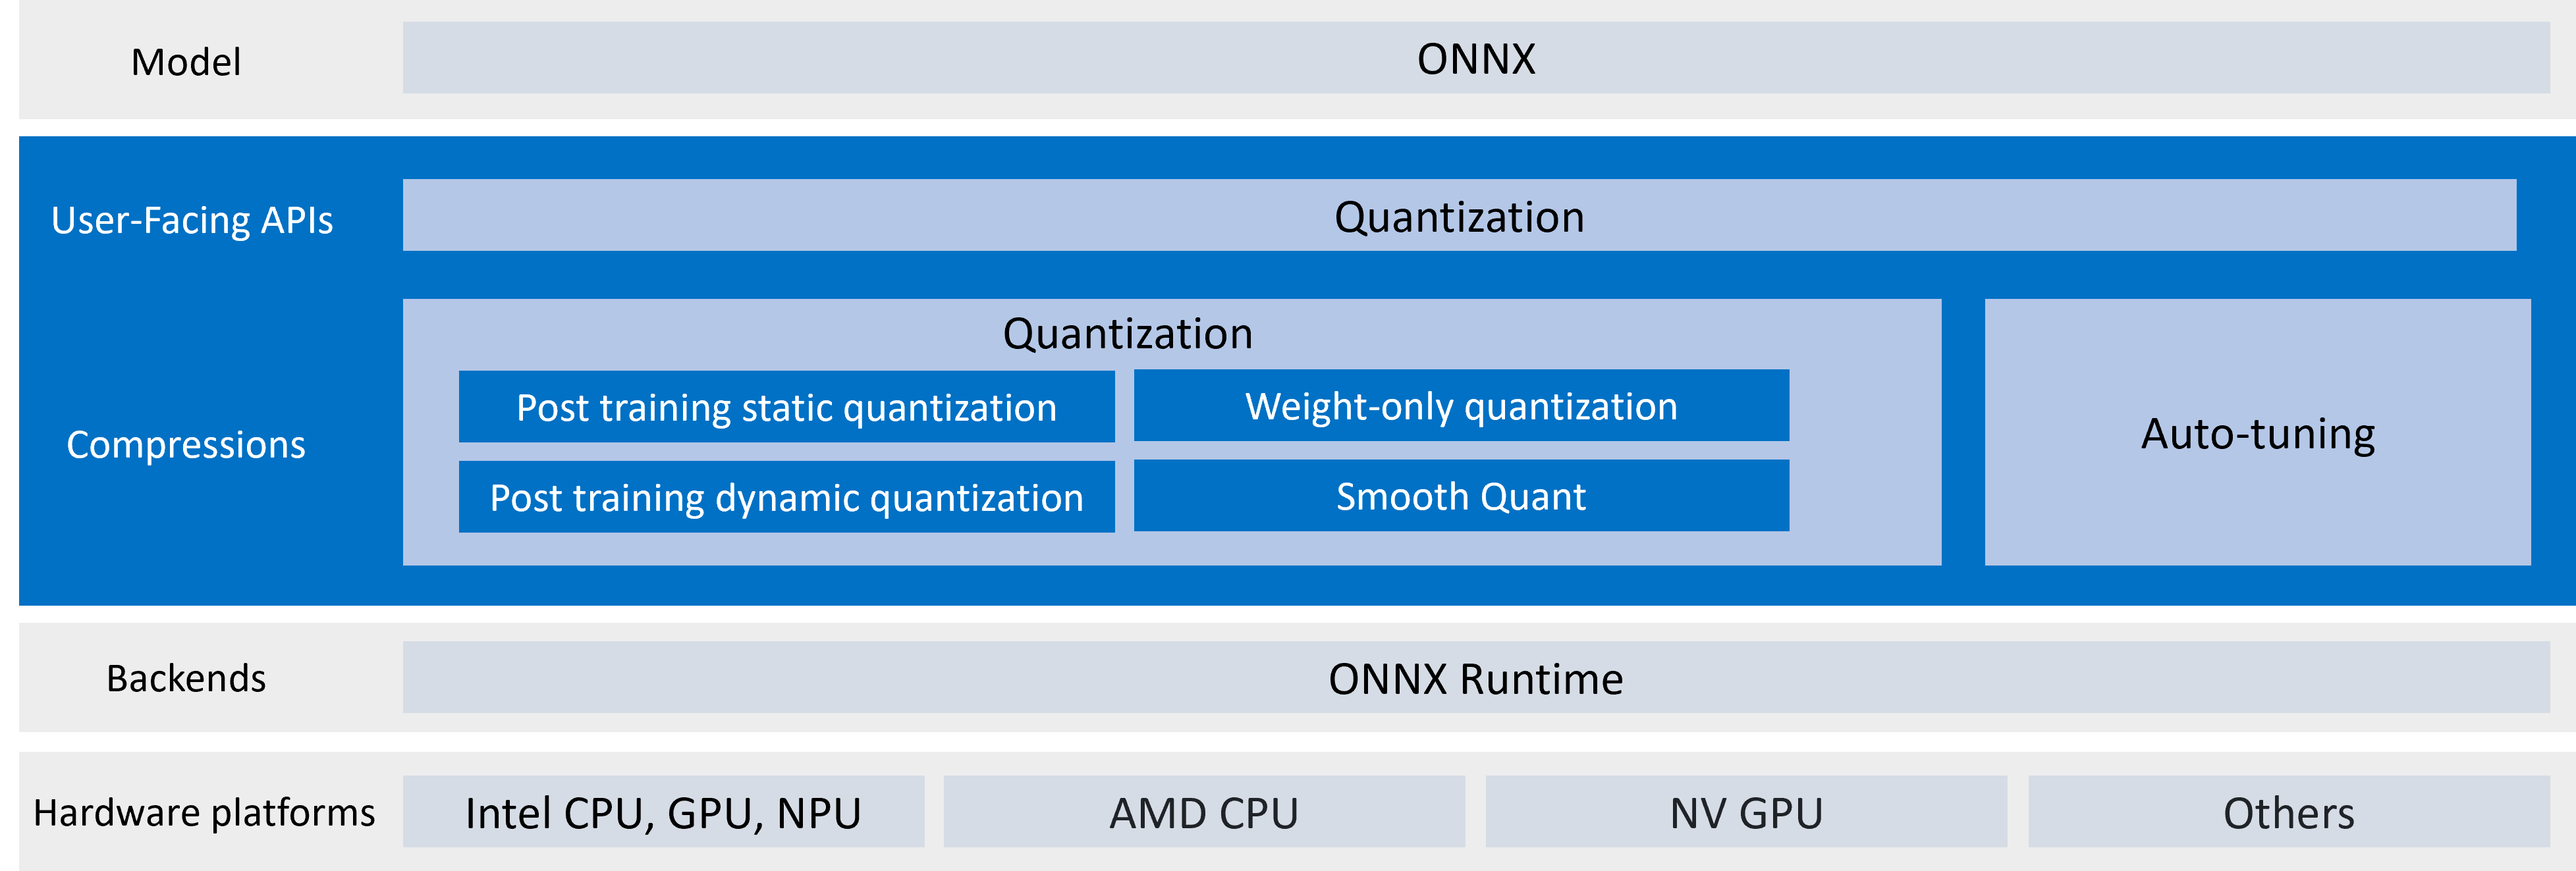
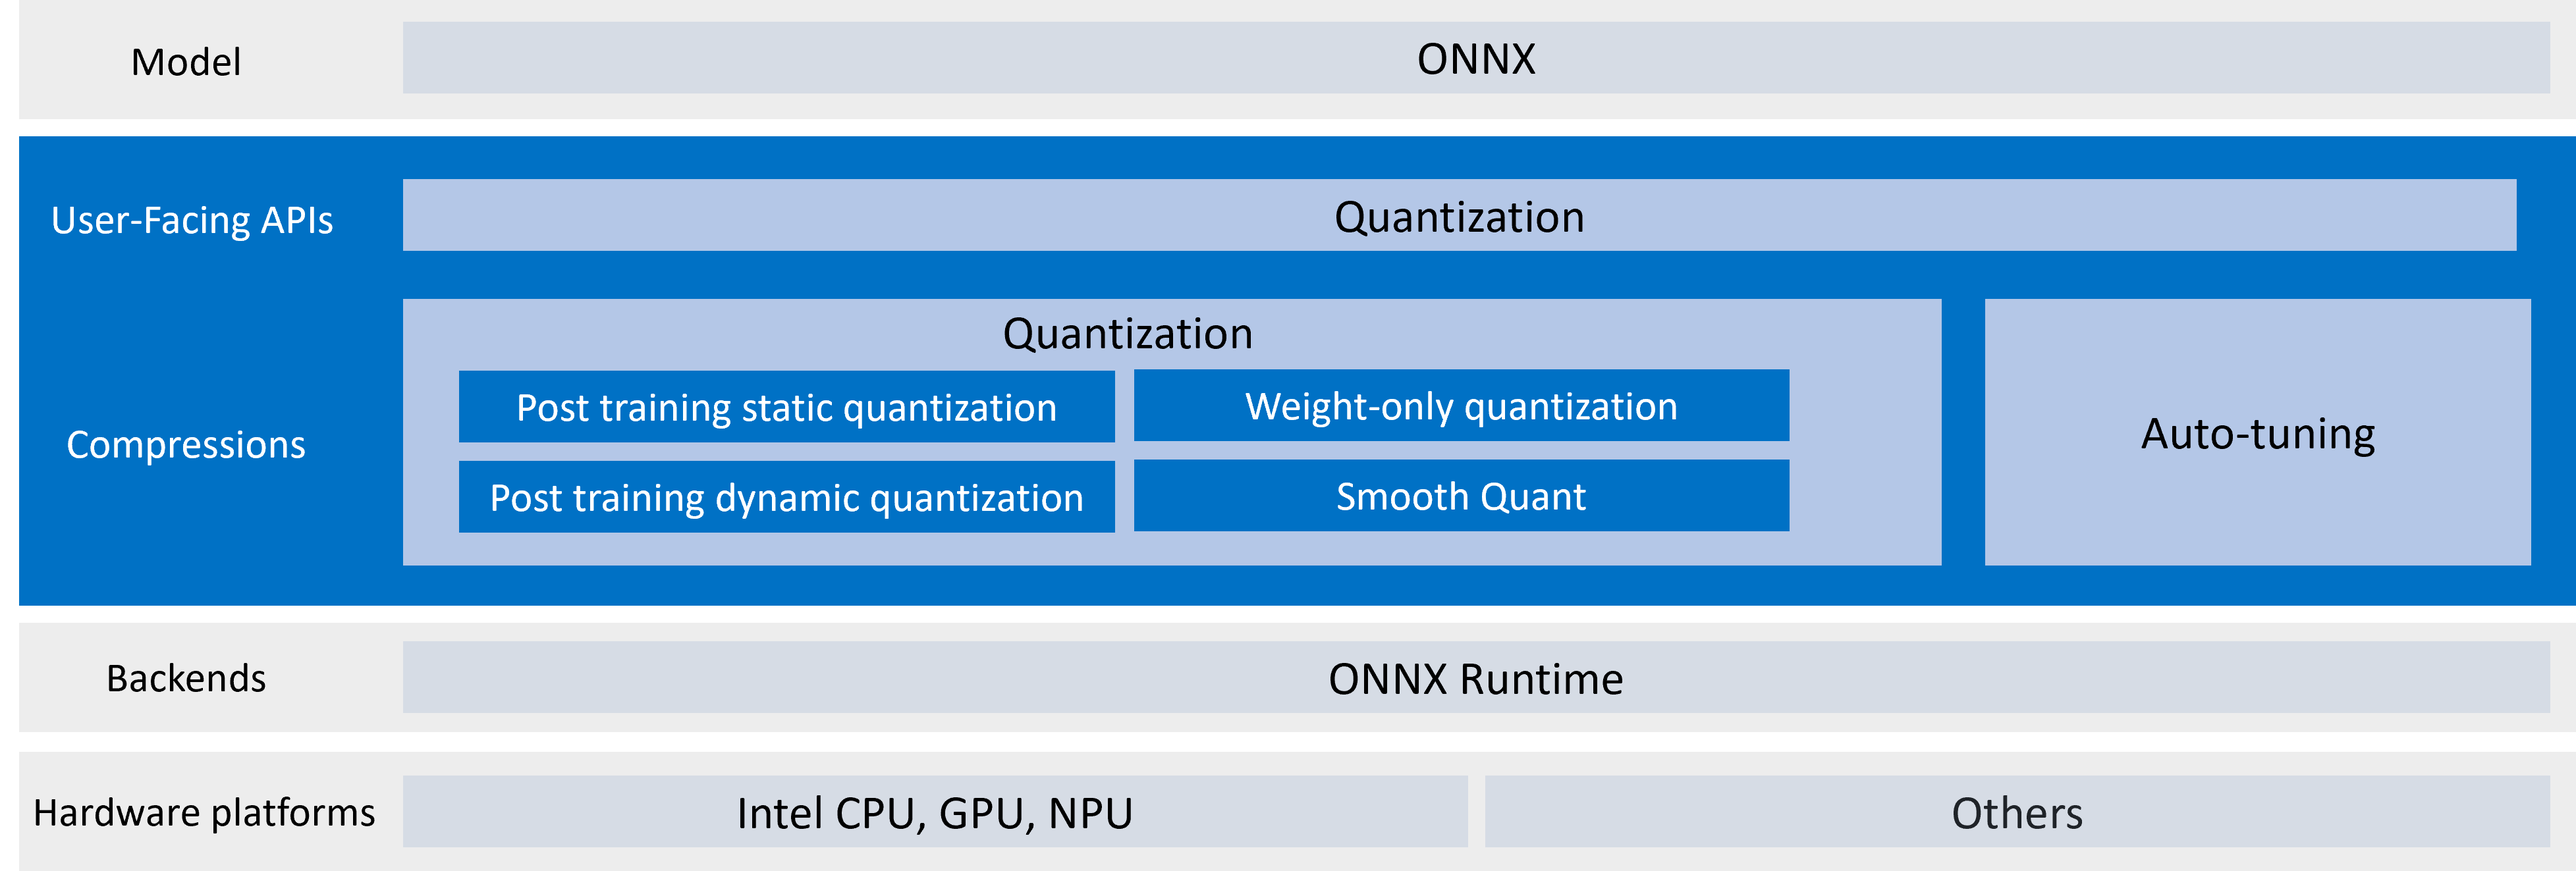
Update doc (#8)
Revise the readme

---------

diff --git a/README.md b/README.md
@@ -14,7 +14,7 @@ Neural Compressor
 
 Neural Compressor aims to provide popular model compression techniques inherited from [Intel Neural Compressor](https://github.com/intel/neural-compressor) yet focused on ONNX model quantization such as SmoothQuant, weight-only quantization through [ONNX Runtime](https://onnxruntime.ai/). In particular, the tool provides the key features, typical examples, and open collaborations as below:
 
-* Support a wide range of Intel hardware such as [Intel Xeon Scalable Processors](https://www.intel.com/content/www/us/en/products/details/processors/xeon/scalable.html), [Intel Xeon CPU Max Series](https://www.intel.com/content/www/us/en/products/details/processors/xeon/max-series.html); support AMD CPU, ARM CPU, and NVidia GPU with limited testing
+* Support a wide range of Intel hardware such as [Intel Xeon Scalable Processors](https://www.intel.com/content/www/us/en/products/details/processors/xeon/scalable.html) and AIPC
 
 * Validate popular LLMs such as [LLama2](./examples/nlp/huggingface_model/text_generation/llama/) and broad models such as [BERT-base](./examples/nlp/onnx_model_zoo/bert-squad/), and [ResNet50](./examples/image_recognition/onnx_model_zoo/resnet50/) from popular model hubs such as [Hugging Face](https://huggingface.co/), [ONNX Model Zoo](https://github.com/onnx/models#models), by leveraging automatic [accuracy-driven](./docs/design.md#workflow) quantization strategies
 

diff --git a/docs/installation_guide.md b/docs/installation_guide.md
@@ -45,10 +45,6 @@ The following prerequisites and requirements must be satisfied for a successful 
 * Intel Xeon Scalable processor (formerly Skylake, Cascade Lake, Cooper Lake, Ice Lake, and Sapphire Rapids)
 * Intel Xeon CPU Max Series (formerly Sapphire Rapids HBM)
 
-#### Support multiple hardware vendors:
-
-* Intel CPU, AMD/ARM CPU, and NVidia GPU.
-
 ### Validated Software Environment
 
 * OS version: CentOS 8.4, Ubuntu 22.04, MacOS Ventura 13.5
